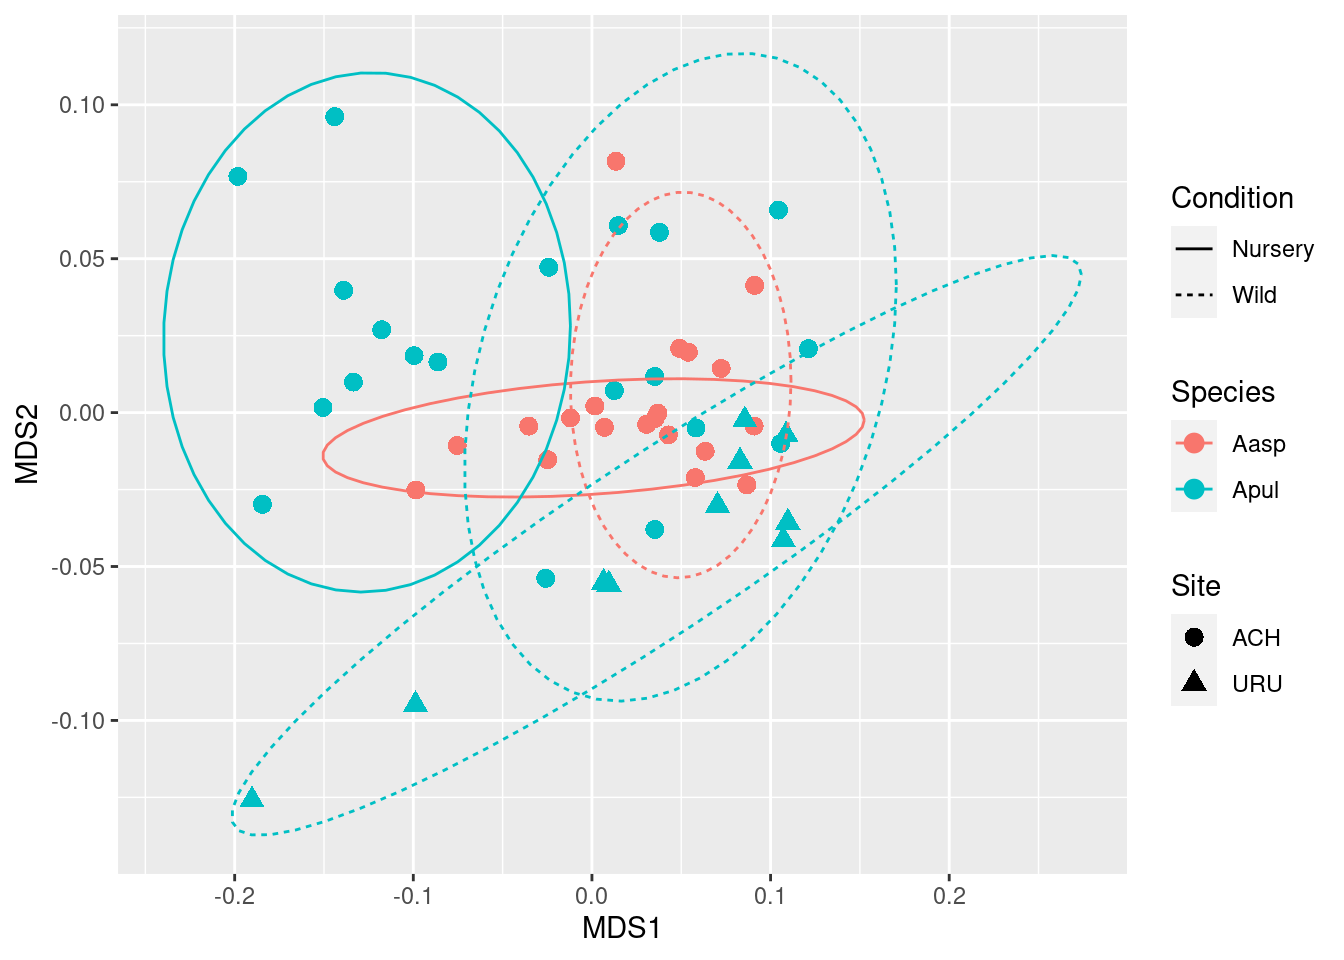
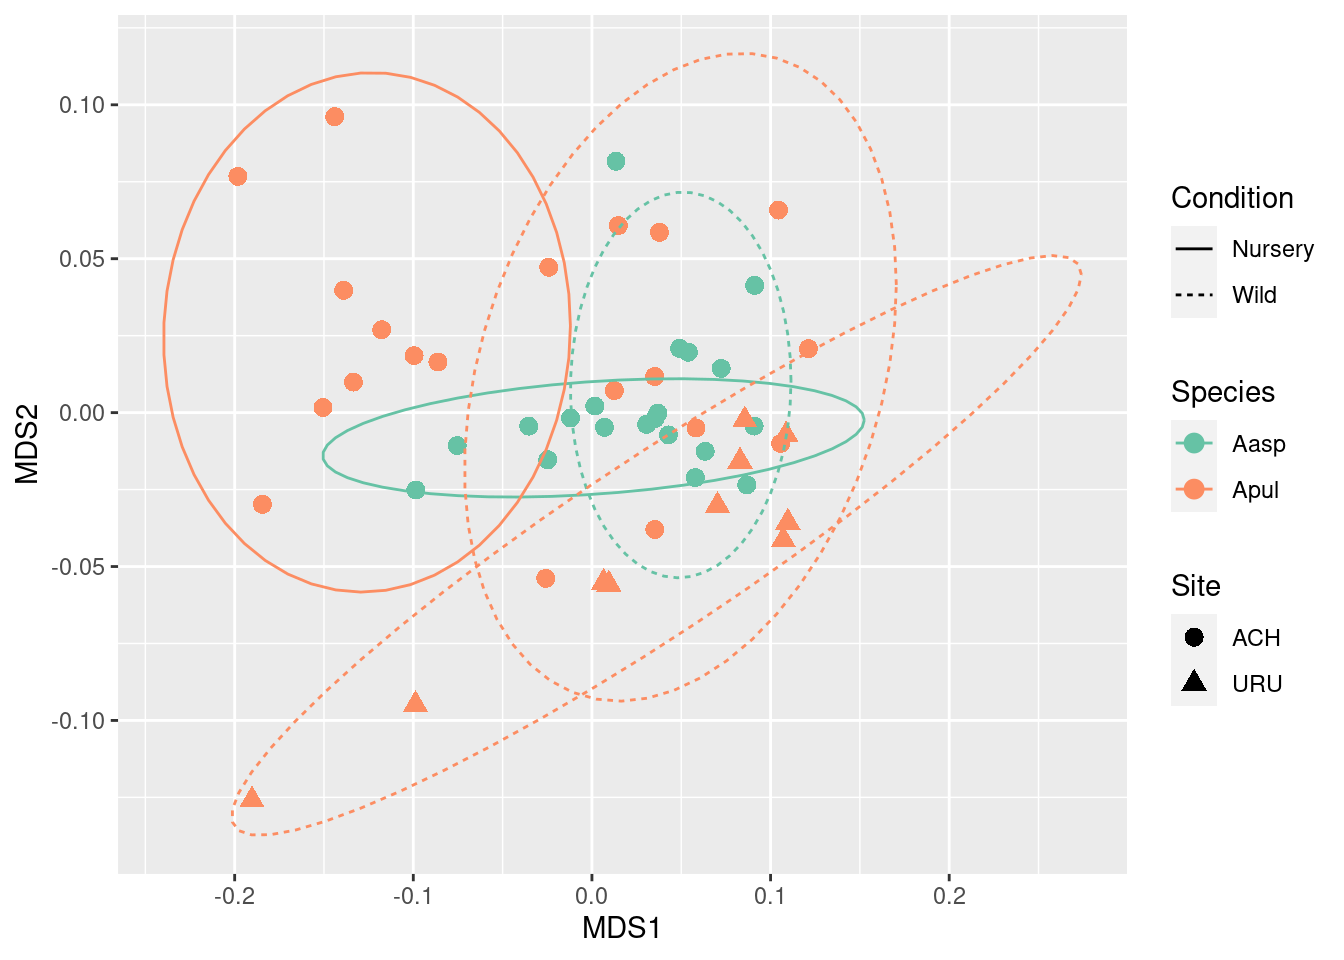
add CV exploration

diff --git a/MultivariateAnalysis.html b/MultivariateAnalysis.html
@@ -129,12 +129,12 @@ pre > code.sourceCode > span > a:first-child::before { text-decoration: underlin
 <div class="sourceCode cell-code" id="cb3"><pre class="sourceCode r code-with-copy"><code class="sourceCode r"><span id="cb3-1"><a href="#cb3-1" aria-hidden="true" tabindex="-1"></a>data <span class="ot">&lt;-</span> cbass_dataset</span>
 <span id="cb3-2"><a href="#cb3-2" aria-hidden="true" tabindex="-1"></a>data <span class="ot">&lt;-</span> <span class="fu">preprocess_dataset</span>(data) <span class="sc">%&gt;%</span> <span class="fu">arrange</span>(Temperature, Species, Condition)</span></code><button title="Copy to Clipboard" class="code-copy-button"><i class="bi"></i></button></pre></div>
 <div class="cell-output cell-output-stdout">
-<pre><code>2023-08-08 18:31:39.306298 [INFO] `Site` column was converted to factor.
-2023-08-08 18:31:39.306612 [INFO] `Condition` column was converted to factor.
-2023-08-08 18:31:39.306816 [INFO] `Species` column was converted to factor.
-2023-08-08 18:31:39.306999 [INFO] `Genotype` column was converted to factor.
-2023-08-08 18:31:39.30714 [INFO] `PAM` column was converted to numeric.
-2023-08-08 18:31:39.307278 [INFO] Removing rows with missing data...</code></pre>
+<pre><code>2023-08-17 17:01:05.817294 [INFO] `Site` column was converted to factor.
+2023-08-17 17:01:05.817549 [INFO] `Condition` column was converted to factor.
+2023-08-17 17:01:05.817697 [INFO] `Species` column was converted to factor.
+2023-08-17 17:01:05.817833 [INFO] `Genotype` column was converted to factor.
+2023-08-17 17:01:05.817936 [INFO] `PAM` column was converted to numeric.
+2023-08-17 17:01:05.818038 [INFO] Removing rows with missing data...</code></pre>
 </div>
 </div>
 <p>Pivot the data to get PAM values as the table with Temperature as column names</p>
@@ -187,48 +187,46 @@ pre > code.sourceCode > span > a:first-child::before { text-decoration: underlin
 <span id="cb10-2"><a href="#cb10-2" aria-hidden="true" tabindex="-1"></a>mds <span class="ot">&lt;-</span> <span class="fu">metaMDS</span>(clean_data[,<span class="dv">6</span><span class="sc">:</span><span class="fu">ncol</span>(clean_data)], <span class="at">distance =</span> <span class="st">"euclidean"</span>)</span></code><button title="Copy to Clipboard" class="code-copy-button"><i class="bi"></i></button></pre></div>
 <div class="cell-output cell-output-stdout">
 <pre><code>Run 0 stress 0.04170669 
-Run 1 stress 0.0913129 
-Run 2 stress 0.09145147 
-Run 3 stress 0.06371107 
-Run 4 stress 0.04170668 
+Run 1 stress 0.04170669 
 ... New best solution
-... Procrustes: rmse 5.230974e-06  max resid 1.983874e-05 
+... Procrustes: rmse 2.046092e-05  max resid 7.461085e-05 
 ... Similar to previous best
-Run 5 stress 0.04170668 
+Run 2 stress 0.08233164 
+Run 3 stress 0.103631 
+Run 4 stress 0.04170669 
 ... New best solution
-... Procrustes: rmse 1.012157e-05  max resid 4.39922e-05 
+... Procrustes: rmse 1.808245e-05  max resid 7.018491e-05 
 ... Similar to previous best
-Run 6 stress 0.04170669 
-... Procrustes: rmse 6.951955e-06  max resid 3.043388e-05 
-... Similar to previous best
-Run 7 stress 0.09148579 
-Run 8 stress 0.04170668 
+Run 5 stress 0.07739795 
+Run 6 stress 0.06439367 
+Run 7 stress 0.1002826 
+Run 8 stress 0.06439928 
+Run 9 stress 0.08112619 
+Run 10 stress 0.06439808 
+Run 11 stress 0.07375875 
+Run 12 stress 0.1020079 
+Run 13 stress 0.1107124 
+Run 14 stress 0.04170668 
 ... New best solution
-... Procrustes: rmse 5.80493e-06  max resid 2.653132e-05 
+... Procrustes: rmse 3.796466e-06  max resid 1.948228e-05 
 ... Similar to previous best
-Run 9 stress 0.04170669 
-... Procrustes: rmse 4.450424e-06  max resid 1.49016e-05 
+Run 15 stress 0.04170669 
+... Procrustes: rmse 1.540867e-05  max resid 5.558791e-05 
 ... Similar to previous best
-Run 10 stress 0.04170669 
-... Procrustes: rmse 7.19981e-06  max resid 2.783143e-05 
+Run 16 stress 0.07545236 
+Run 17 stress 0.04170668 
+... New best solution
+... Procrustes: rmse 1.384278e-05  max resid 6.213673e-05 
 ... Similar to previous best
-Run 11 stress 0.08162556 
-Run 12 stress 0.04170669 
-... Procrustes: rmse 9.974311e-06  max resid 3.812188e-05 
+Run 18 stress 0.04170668 
+... New best solution
+... Procrustes: rmse 1.328409e-05  max resid 5.982762e-05 
 ... Similar to previous best
-Run 13 stress 0.07739795 
-Run 14 stress 0.04170669 
-... Procrustes: rmse 1.216787e-05  max resid 4.535274e-05 
+Run 19 stress 0.04170669 
+... Procrustes: rmse 1.656001e-05  max resid 6.206971e-05 
 ... Similar to previous best
-Run 15 stress 0.06371107 
-Run 16 stress 0.07689933 
-Run 17 stress 0.07736845 
-Run 18 stress 0.08534731 
-Run 19 stress 0.06371107 
-Run 20 stress 0.04170668 
-... Procrustes: rmse 9.161456e-06  max resid 3.553667e-05 
-... Similar to previous best
-*** Best solution repeated 6 times</code></pre>
+Run 20 stress 0.06439366 
+*** Best solution repeated 2 times</code></pre>
 </div>
 <div class="sourceCode cell-code" id="cb12"><pre class="sourceCode r code-with-copy"><code class="sourceCode r"><span id="cb12-1"><a href="#cb12-1" aria-hidden="true" tabindex="-1"></a>mds <span class="ot">&lt;-</span> <span class="fu">as.data.frame</span>(mds<span class="sc">$</span>points)</span>
 <span id="cb12-2"><a href="#cb12-2" aria-hidden="true" tabindex="-1"></a>mds<span class="sc">$</span>Species <span class="ot">&lt;-</span> clean_data<span class="sc">$</span>Species</span>
@@ -239,22 +237,55 @@ Run 20 stress 0.04170668
 <div class="cell">
 <div class="sourceCode cell-code" id="cb13"><pre class="sourceCode r code-with-copy"><code class="sourceCode r"><span id="cb13-1"><a href="#cb13-1" aria-hidden="true" tabindex="-1"></a><span class="fu">ggplot</span>(mds, <span class="fu">aes</span>(<span class="at">x =</span> MDS1, <span class="at">y =</span> MDS2, <span class="at">color =</span> Species, <span class="at">shape =</span> Site, <span class="at">linetype =</span> Condition)) <span class="sc">+</span></span>
 <span id="cb13-2"><a href="#cb13-2" aria-hidden="true" tabindex="-1"></a>  <span class="fu">geom_point</span>(<span class="at">size =</span> <span class="dv">3</span>) <span class="sc">+</span></span>
-<span id="cb13-3"><a href="#cb13-3" aria-hidden="true" tabindex="-1"></a>   <span class="fu">stat_ellipse</span>()</span></code><button title="Copy to Clipboard" class="code-copy-button"><i class="bi"></i></button></pre></div>
+<span id="cb13-3"><a href="#cb13-3" aria-hidden="true" tabindex="-1"></a>   <span class="fu">stat_ellipse</span>() <span class="sc">+</span></span>
+<span id="cb13-4"><a href="#cb13-4" aria-hidden="true" tabindex="-1"></a>  <span class="fu">scale_color_brewer</span>(<span class="at">palette =</span> <span class="st">"Set2"</span>) <span class="co"># colorblind-friendly palette</span></span></code><button title="Copy to Clipboard" class="code-copy-button"><i class="bi"></i></button></pre></div>
 <div class="cell-output-display">
 <p><img src="MultivariateAnalysis_files/figure-html/plot-mds-1.png" class="img-fluid" width="672"></p>
 </div>
 </div>
 <p>OK, this is a nice picture that tells us nothing about the dependency of <code>PAM</code> from <code>Temperature</code>. And what’s better for live.</p>
+<p>Coefficients of Variation. Ideally, these should be below 15-20 %.</p>
+<div class="cell">
+<div class="sourceCode cell-code" id="cb14"><pre class="sourceCode r code-with-copy"><code class="sourceCode r"><span id="cb14-1"><a href="#cb14-1" aria-hidden="true" tabindex="-1"></a>CVs <span class="ot">&lt;-</span> clean_data <span class="sc">%&gt;%</span></span>
+<span id="cb14-2"><a href="#cb14-2" aria-hidden="true" tabindex="-1"></a>  <span class="fu">group_by</span>(Site, Condition, Species) <span class="sc">%&gt;%</span></span>
+<span id="cb14-3"><a href="#cb14-3" aria-hidden="true" tabindex="-1"></a>  <span class="fu">summarise</span>(</span>
+<span id="cb14-4"><a href="#cb14-4" aria-hidden="true" tabindex="-1"></a>    <span class="at">CV_29 =</span> <span class="fu">sd</span>(<span class="st">`</span><span class="at">29</span><span class="st">`</span>) <span class="sc">/</span> <span class="fu">mean</span>(<span class="st">`</span><span class="at">29</span><span class="st">`</span>) <span class="sc">*</span> <span class="dv">100</span>,</span>
+<span id="cb14-5"><a href="#cb14-5" aria-hidden="true" tabindex="-1"></a>    <span class="at">CV_35 =</span> <span class="fu">sd</span>(<span class="st">`</span><span class="at">35</span><span class="st">`</span>) <span class="sc">/</span> <span class="fu">mean</span>(<span class="st">`</span><span class="at">35</span><span class="st">`</span>) <span class="sc">*</span> <span class="dv">100</span>,</span>
+<span id="cb14-6"><a href="#cb14-6" aria-hidden="true" tabindex="-1"></a>    <span class="at">CV_38 =</span> <span class="fu">sd</span>(<span class="st">`</span><span class="at">38</span><span class="st">`</span>) <span class="sc">/</span> <span class="fu">mean</span>(<span class="st">`</span><span class="at">38</span><span class="st">`</span>) <span class="sc">*</span> <span class="dv">100</span>,</span>
+<span id="cb14-7"><a href="#cb14-7" aria-hidden="true" tabindex="-1"></a>    <span class="at">CV_41 =</span> <span class="fu">sd</span>(<span class="st">`</span><span class="at">41</span><span class="st">`</span>) <span class="sc">/</span> <span class="fu">mean</span>(<span class="st">`</span><span class="at">41</span><span class="st">`</span>) <span class="sc">*</span> <span class="dv">100</span></span>
+<span id="cb14-8"><a href="#cb14-8" aria-hidden="true" tabindex="-1"></a>  )</span></code><button title="Copy to Clipboard" class="code-copy-button"><i class="bi"></i></button></pre></div>
+<div class="cell-output cell-output-stderr">
+<pre><code>`summarise()` has grouped output by 'Site', 'Condition'. You can override using
+the `.groups` argument.</code></pre>
+</div>
+</div>
+<p>Visualize:</p>
+<div class="cell">
+<div class="sourceCode cell-code" id="cb16"><pre class="sourceCode r code-with-copy"><code class="sourceCode r"><span id="cb16-1"><a href="#cb16-1" aria-hidden="true" tabindex="-1"></a><span class="co"># Reshape the data to a longer format</span></span>
+<span id="cb16-2"><a href="#cb16-2" aria-hidden="true" tabindex="-1"></a>cv_data_long <span class="ot">&lt;-</span> CVs <span class="sc">%&gt;%</span></span>
+<span id="cb16-3"><a href="#cb16-3" aria-hidden="true" tabindex="-1"></a>  <span class="fu">pivot_longer</span>(<span class="at">cols =</span> <span class="fu">starts_with</span>(<span class="st">"CV"</span>), <span class="at">names_to =</span> <span class="st">"Temperature"</span>, <span class="at">values_to =</span> <span class="st">"CV"</span>)</span>
+<span id="cb16-4"><a href="#cb16-4" aria-hidden="true" tabindex="-1"></a></span>
+<span id="cb16-5"><a href="#cb16-5" aria-hidden="true" tabindex="-1"></a><span class="fu">ggplot</span>(</span>
+<span id="cb16-6"><a href="#cb16-6" aria-hidden="true" tabindex="-1"></a>  cv_data_long, <span class="fu">aes</span>(<span class="at">x =</span> Temperature, <span class="at">y =</span> CV, <span class="at">color =</span> Species)) <span class="sc">+</span></span>
+<span id="cb16-7"><a href="#cb16-7" aria-hidden="true" tabindex="-1"></a>  <span class="fu">geom_boxplot</span>() <span class="sc">+</span></span>
+<span id="cb16-8"><a href="#cb16-8" aria-hidden="true" tabindex="-1"></a>  <span class="fu">facet_grid</span>(<span class="sc">~</span>Site) <span class="sc">+</span></span>
+<span id="cb16-9"><a href="#cb16-9" aria-hidden="true" tabindex="-1"></a>  <span class="fu">labs</span>(<span class="at">x =</span> <span class="st">"Temperature"</span>, <span class="at">y =</span> <span class="st">"Coefficient of Variation (%)"</span>) <span class="sc">+</span></span>
+<span id="cb16-10"><a href="#cb16-10" aria-hidden="true" tabindex="-1"></a>  <span class="fu">scale_color_brewer</span>(<span class="at">palette =</span> <span class="st">"Set2"</span>)</span></code><button title="Copy to Clipboard" class="code-copy-button"><i class="bi"></i></button></pre></div>
+<div class="cell-output-display">
+<p><img src="MultivariateAnalysis_files/figure-html/unnamed-chunk-1-1.png" class="img-fluid" width="672"></p>
+</div>
+</div>
+<p>I suppose it should be almost fine, for 41 they are almost bleached.</p>
 </section>
 <section id="try-permanova" class="level2">
 <h2 class="anchored" data-anchor-id="try-permanova">Try perMANOVA</h2>
 <div class="cell">
-<div class="sourceCode cell-code" id="cb14"><pre class="sourceCode r code-with-copy"><code class="sourceCode r"><span id="cb14-1"><a href="#cb14-1" aria-hidden="true" tabindex="-1"></a>permanova <span class="ot">&lt;-</span> <span class="fu">adonis2</span>(</span>
-<span id="cb14-2"><a href="#cb14-2" aria-hidden="true" tabindex="-1"></a>  clean_data[,<span class="dv">6</span><span class="sc">:</span><span class="fu">ncol</span>(clean_data)] <span class="sc">~</span> Site <span class="sc">*</span> Condition,</span>
-<span id="cb14-3"><a href="#cb14-3" aria-hidden="true" tabindex="-1"></a>  <span class="at">data =</span> clean_data,</span>
-<span id="cb14-4"><a href="#cb14-4" aria-hidden="true" tabindex="-1"></a>  <span class="at">strata =</span> clean_data<span class="sc">$</span>Species,</span>
-<span id="cb14-5"><a href="#cb14-5" aria-hidden="true" tabindex="-1"></a>  <span class="at">method =</span> <span class="st">"euclidean"</span>)</span>
-<span id="cb14-6"><a href="#cb14-6" aria-hidden="true" tabindex="-1"></a>permanova</span></code><button title="Copy to Clipboard" class="code-copy-button"><i class="bi"></i></button></pre></div>
+<div class="sourceCode cell-code" id="cb17"><pre class="sourceCode r code-with-copy"><code class="sourceCode r"><span id="cb17-1"><a href="#cb17-1" aria-hidden="true" tabindex="-1"></a>permanova <span class="ot">&lt;-</span> <span class="fu">adonis2</span>(</span>
+<span id="cb17-2"><a href="#cb17-2" aria-hidden="true" tabindex="-1"></a>  clean_data[,<span class="dv">6</span><span class="sc">:</span><span class="fu">ncol</span>(clean_data)] <span class="sc">~</span> Site <span class="sc">*</span> Condition,</span>
+<span id="cb17-3"><a href="#cb17-3" aria-hidden="true" tabindex="-1"></a>  <span class="at">data =</span> clean_data,</span>
+<span id="cb17-4"><a href="#cb17-4" aria-hidden="true" tabindex="-1"></a>  <span class="at">strata =</span> clean_data<span class="sc">$</span>Species,</span>
+<span id="cb17-5"><a href="#cb17-5" aria-hidden="true" tabindex="-1"></a>  <span class="at">method =</span> <span class="st">"euclidean"</span>)</span>
+<span id="cb17-6"><a href="#cb17-6" aria-hidden="true" tabindex="-1"></a>permanova</span></code><button title="Copy to Clipboard" class="code-copy-button"><i class="bi"></i></button></pre></div>
 <div class="cell-output cell-output-stdout">
 <pre><code>Permutation test for adonis under reduced model
 Terms added sequentially (first to last)
@@ -264,7 +295,7 @@ Number of permutations: 999
 
 adonis2(formula = clean_data[, 6:ncol(clean_data)] ~ Site * Condition, data = clean_data, method = "euclidean", strata = clean_data$Species)
           Df SumOfSqs      R2       F Pr(&gt;F)    
-Site       1  0.03915 0.07649  5.3231  0.045 *  
+Site       1  0.03915 0.07649  5.3231  0.048 *  
 Condition  1  0.12699 0.24811 17.2660  0.001 ***
 Residual  47  0.34568 0.67539                   
 Total     49  0.51182 1.00000                   
@@ -274,15 +305,15 @@ Signif. codes:  0 '***' 0.001 '**' 0.01 '*' 0.05 '.' 0.1 ' ' 1</code></pre>
 </div>
 <p>Check if we can apply perMANOVA</p>
 <div class="cell">
-<div class="sourceCode cell-code" id="cb16"><pre class="sourceCode r code-with-copy"><code class="sourceCode r"><span id="cb16-1"><a href="#cb16-1" aria-hidden="true" tabindex="-1"></a>dist <span class="ot">&lt;-</span> <span class="fu">vegdist</span>(clean_data[,<span class="dv">6</span><span class="sc">:</span><span class="fu">ncol</span>(clean_data)], <span class="at">method  =</span> <span class="st">"euclidean"</span>)</span>
-<span id="cb16-2"><a href="#cb16-2" aria-hidden="true" tabindex="-1"></a>PCO <span class="ot">&lt;-</span> <span class="fu">betadisper</span>(dist, clean_data<span class="sc">$</span>Species)</span>
-<span id="cb16-3"><a href="#cb16-3" aria-hidden="true" tabindex="-1"></a><span class="fu">plot</span>(PCO, <span class="at">main =</span> <span class="st">"PCoA ordination"</span>)</span></code><button title="Copy to Clipboard" class="code-copy-button"><i class="bi"></i></button></pre></div>
+<div class="sourceCode cell-code" id="cb19"><pre class="sourceCode r code-with-copy"><code class="sourceCode r"><span id="cb19-1"><a href="#cb19-1" aria-hidden="true" tabindex="-1"></a>dist <span class="ot">&lt;-</span> <span class="fu">vegdist</span>(clean_data[,<span class="dv">6</span><span class="sc">:</span><span class="fu">ncol</span>(clean_data)], <span class="at">method  =</span> <span class="st">"euclidean"</span>)</span>
+<span id="cb19-2"><a href="#cb19-2" aria-hidden="true" tabindex="-1"></a>PCO <span class="ot">&lt;-</span> <span class="fu">betadisper</span>(dist, clean_data<span class="sc">$</span>Species)</span>
+<span id="cb19-3"><a href="#cb19-3" aria-hidden="true" tabindex="-1"></a><span class="fu">plot</span>(PCO, <span class="at">main =</span> <span class="st">"PCoA ordination"</span>)</span></code><button title="Copy to Clipboard" class="code-copy-button"><i class="bi"></i></button></pre></div>
 <div class="cell-output-display">
 <p><img src="MultivariateAnalysis_files/figure-html/make-PCoA-ordination-1.png" class="img-fluid" width="672"></p>
 </div>
 </div>
 <div class="cell">
-<div class="sourceCode cell-code" id="cb17"><pre class="sourceCode r code-with-copy"><code class="sourceCode r"><span id="cb17-1"><a href="#cb17-1" aria-hidden="true" tabindex="-1"></a><span class="fu">anova</span>(PCO)</span></code><button title="Copy to Clipboard" class="code-copy-button"><i class="bi"></i></button></pre></div>
+<div class="sourceCode cell-code" id="cb20"><pre class="sourceCode r code-with-copy"><code class="sourceCode r"><span id="cb20-1"><a href="#cb20-1" aria-hidden="true" tabindex="-1"></a><span class="fu">anova</span>(PCO)</span></code><button title="Copy to Clipboard" class="code-copy-button"><i class="bi"></i></button></pre></div>
 <div class="cell-output cell-output-stdout">
 <pre><code>Analysis of Variance Table
 
@@ -292,6 +323,17 @@ Groups     1 0.037145 0.037145  16.064 0.0002125 ***
 Residuals 48 0.110990 0.002312                      
 ---
 Signif. codes:  0 '***' 0.001 '**' 0.01 '*' 0.05 '.' 0.1 ' ' 1</code></pre>
+</div>
+</div>
+</section>
+<section id="experimenting-with-linear-models" class="level1">
+<h1>Experimenting with Linear Models</h1>
+<p>The main idea remains the same. PAM linear depends on Temperature, so linear models should be more suitable than multivariate statistics here?</p>
+<div class="cell">
+<div class="sourceCode cell-code" id="cb22"><pre class="sourceCode r code-with-copy"><code class="sourceCode r"><span id="cb22-1"><a href="#cb22-1" aria-hidden="true" tabindex="-1"></a><span class="fu">ggplot</span>(data, <span class="fu">aes</span>(PAM)) <span class="sc">+</span></span>
+<span id="cb22-2"><a href="#cb22-2" aria-hidden="true" tabindex="-1"></a>  <span class="fu">geom_histogram</span>(<span class="at">bins =</span> <span class="dv">30</span>)</span></code><button title="Copy to Clipboard" class="code-copy-button"><i class="bi"></i></button></pre></div>
+<div class="cell-output-display">
+<p><img src="MultivariateAnalysis_files/figure-html/plot-pam-dist-1.png" class="img-fluid" width="672"></p>
 </div>
 </div>
 </section>

diff --git a/Demo.html b/Demo.html
@@ -144,19 +144,19 @@ pre > code.sourceCode > span > a:first-child::before { text-decoration: underlin
 <div class="cell">
 <div class="sourceCode cell-code" id="cb5"><pre class="sourceCode r code-with-copy"><code class="sourceCode r"><span id="cb5-1"><a href="#cb5-1" aria-hidden="true" tabindex="-1"></a>cbass_dataset <span class="ot">&lt;-</span> <span class="fu">preprocess_dataset</span>(cbass_dataset)</span></code><button title="Copy to Clipboard" class="code-copy-button"><i class="bi"></i></button></pre></div>
 <div class="cell-output cell-output-stdout">
-<pre><code>2023-08-07 19:22:05.455585 [INFO] `Site` column was converted to factor.
-2023-08-07 19:22:05.455917 [INFO] `Condition` column was converted to factor.
-2023-08-07 19:22:05.456128 [INFO] `Species` column was converted to factor.
-2023-08-07 19:22:05.456317 [INFO] `Genotype` column was converted to factor.
-2023-08-07 19:22:05.45646 [INFO] `PAM` column was converted to numeric.
-2023-08-07 19:22:05.456602 [INFO] Removing rows with missing data...</code></pre>
+<pre><code>2023-08-17 16:59:56.840805 [INFO] `Site` column was converted to factor.
+2023-08-17 16:59:56.841129 [INFO] `Condition` column was converted to factor.
+2023-08-17 16:59:56.841341 [INFO] `Species` column was converted to factor.
+2023-08-17 16:59:56.841527 [INFO] `Genotype` column was converted to factor.
+2023-08-17 16:59:56.841671 [INFO] `PAM` column was converted to numeric.
+2023-08-17 16:59:56.841807 [INFO] Removing rows with missing data...</code></pre>
 </div>
 <div class="sourceCode cell-code" id="cb7"><pre class="sourceCode r code-with-copy"><code class="sourceCode r"><span id="cb7-1"><a href="#cb7-1" aria-hidden="true" tabindex="-1"></a><span class="fu">validate_cbass_dataset</span>(cbass_dataset)</span></code><button title="Copy to Clipboard" class="code-copy-button"><i class="bi"></i></button></pre></div>
 <div class="cell-output cell-output-stdout">
-<pre><code>2023-08-07 19:22:05.458036 [INFO] Checking if the dataset has all mandatory columns...
-2023-08-07 19:22:05.458246 [INFO] Checking if the dataset has enough temperature values...
-2023-08-07 19:22:05.4584 [INFO] Your dataset passes all checks!
-2023-08-07 19:22:05.458503 [INFO] The dataset contains:
+<pre><code>2023-08-17 16:59:56.843166 [INFO] Checking if the dataset has all mandatory columns...
+2023-08-17 16:59:56.843375 [INFO] Checking if the dataset has enough temperature values...
+2023-08-17 16:59:56.843523 [INFO] Your dataset passes all checks!
+2023-08-17 16:59:56.84362 [INFO] The dataset contains:
 * 3 unique Sites
 * 2 unique Conditions
 * 2 unique Species
@@ -201,7 +201,7 @@ pre > code.sourceCode > span > a:first-child::before { text-decoration: underlin
 <p>You can choose colorblind-friendly palettes with <code>display.brewer.all(colorblindFriendly = T)</code>.</p>
 <div class="cell">
 <div class="sourceCode cell-code" id="cb13"><pre class="sourceCode r code-with-copy"><code class="sourceCode r"><span id="cb13-1"><a href="#cb13-1" aria-hidden="true" tabindex="-1"></a><span class="fu">ggplot</span>(</span>
-<span id="cb13-2"><a href="#cb13-2" aria-hidden="true" tabindex="-1"></a>  ed50_df, <span class="fu">aes</span>(<span class="at">x=</span>Condition, <span class="at">y=</span>ED50, <span class="at">color =</span> Species)) <span class="sc">+</span></span>
+<span id="cb13-2"><a href="#cb13-2" aria-hidden="true" tabindex="-1"></a>  ed50_df, <span class="fu">aes</span>(<span class="at">x =</span> Condition, <span class="at">y =</span> ED50, <span class="at">color =</span> Species)) <span class="sc">+</span></span>
 <span id="cb13-3"><a href="#cb13-3" aria-hidden="true" tabindex="-1"></a>  <span class="fu">geom_boxplot</span>() <span class="sc">+</span> </span>
 <span id="cb13-4"><a href="#cb13-4" aria-hidden="true" tabindex="-1"></a>  <span class="fu">facet_grid</span>(<span class="sc">~</span>Site) <span class="sc">+</span></span>
 <span id="cb13-5"><a href="#cb13-5" aria-hidden="true" tabindex="-1"></a>  <span class="fu">scale_color_brewer</span>(<span class="at">palette =</span> <span class="st">"Set2"</span>)</span></code><button title="Copy to Clipboard" class="code-copy-button"><i class="bi"></i></button></pre></div>
